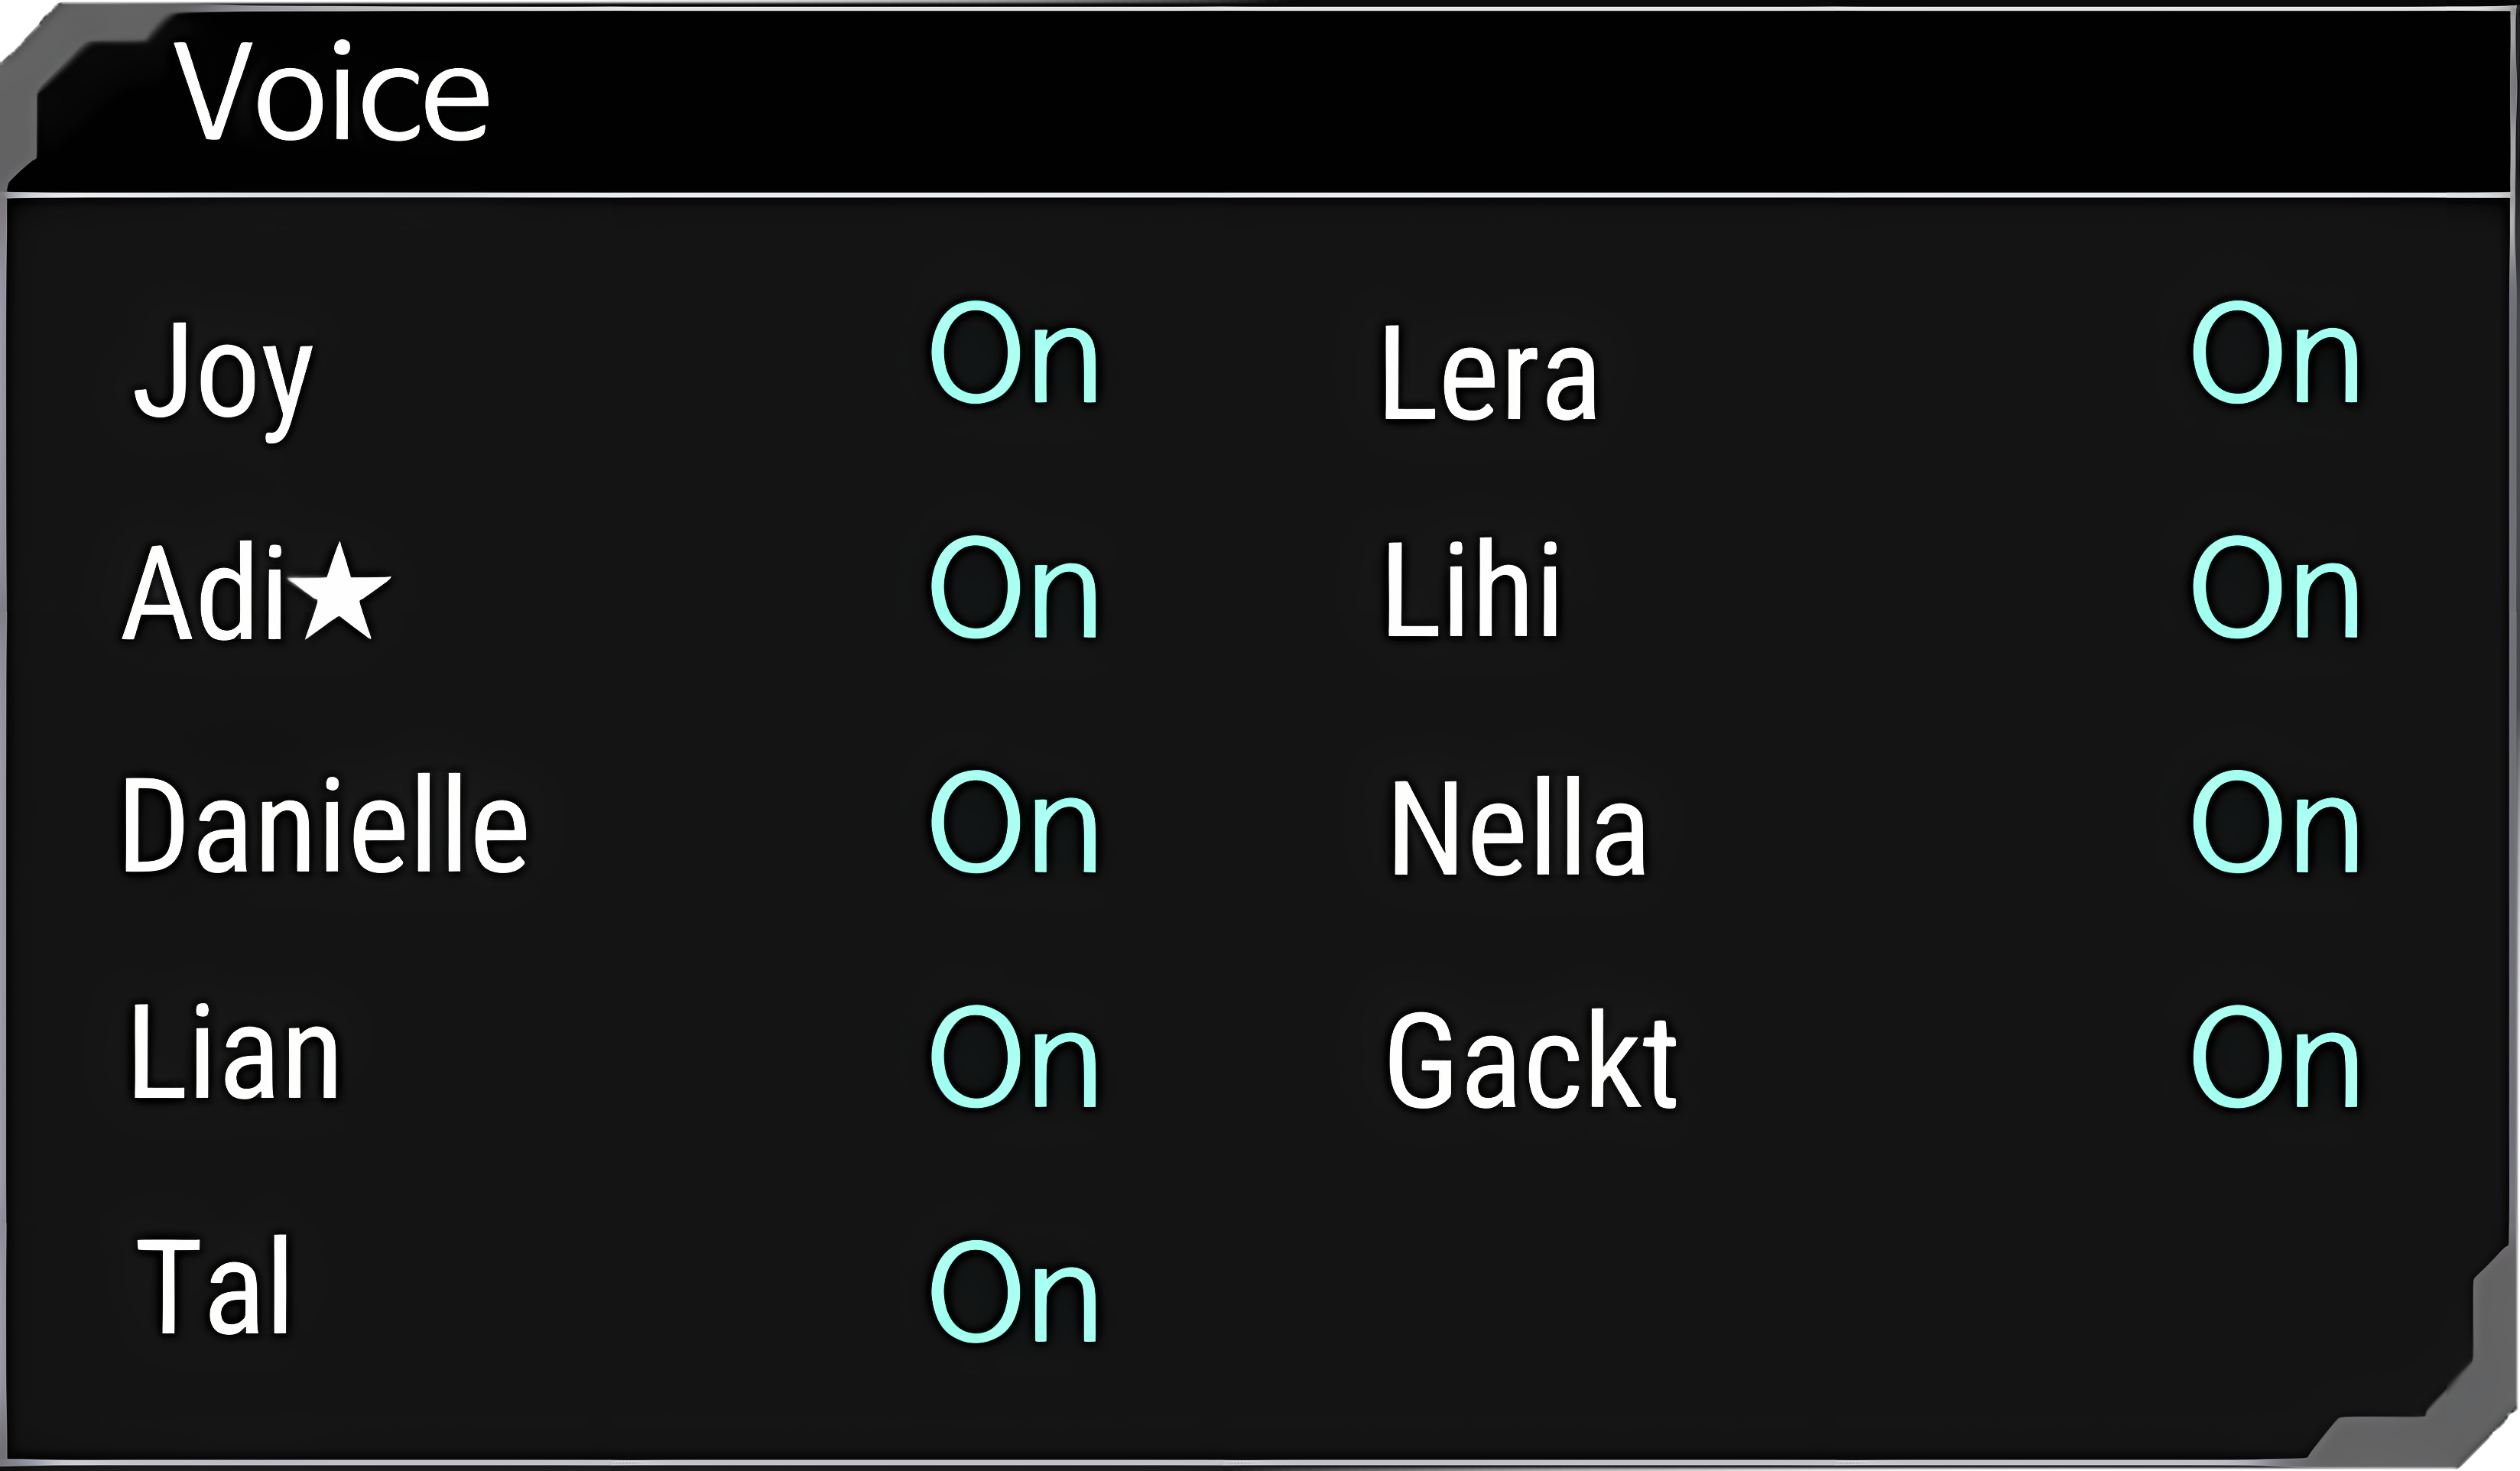
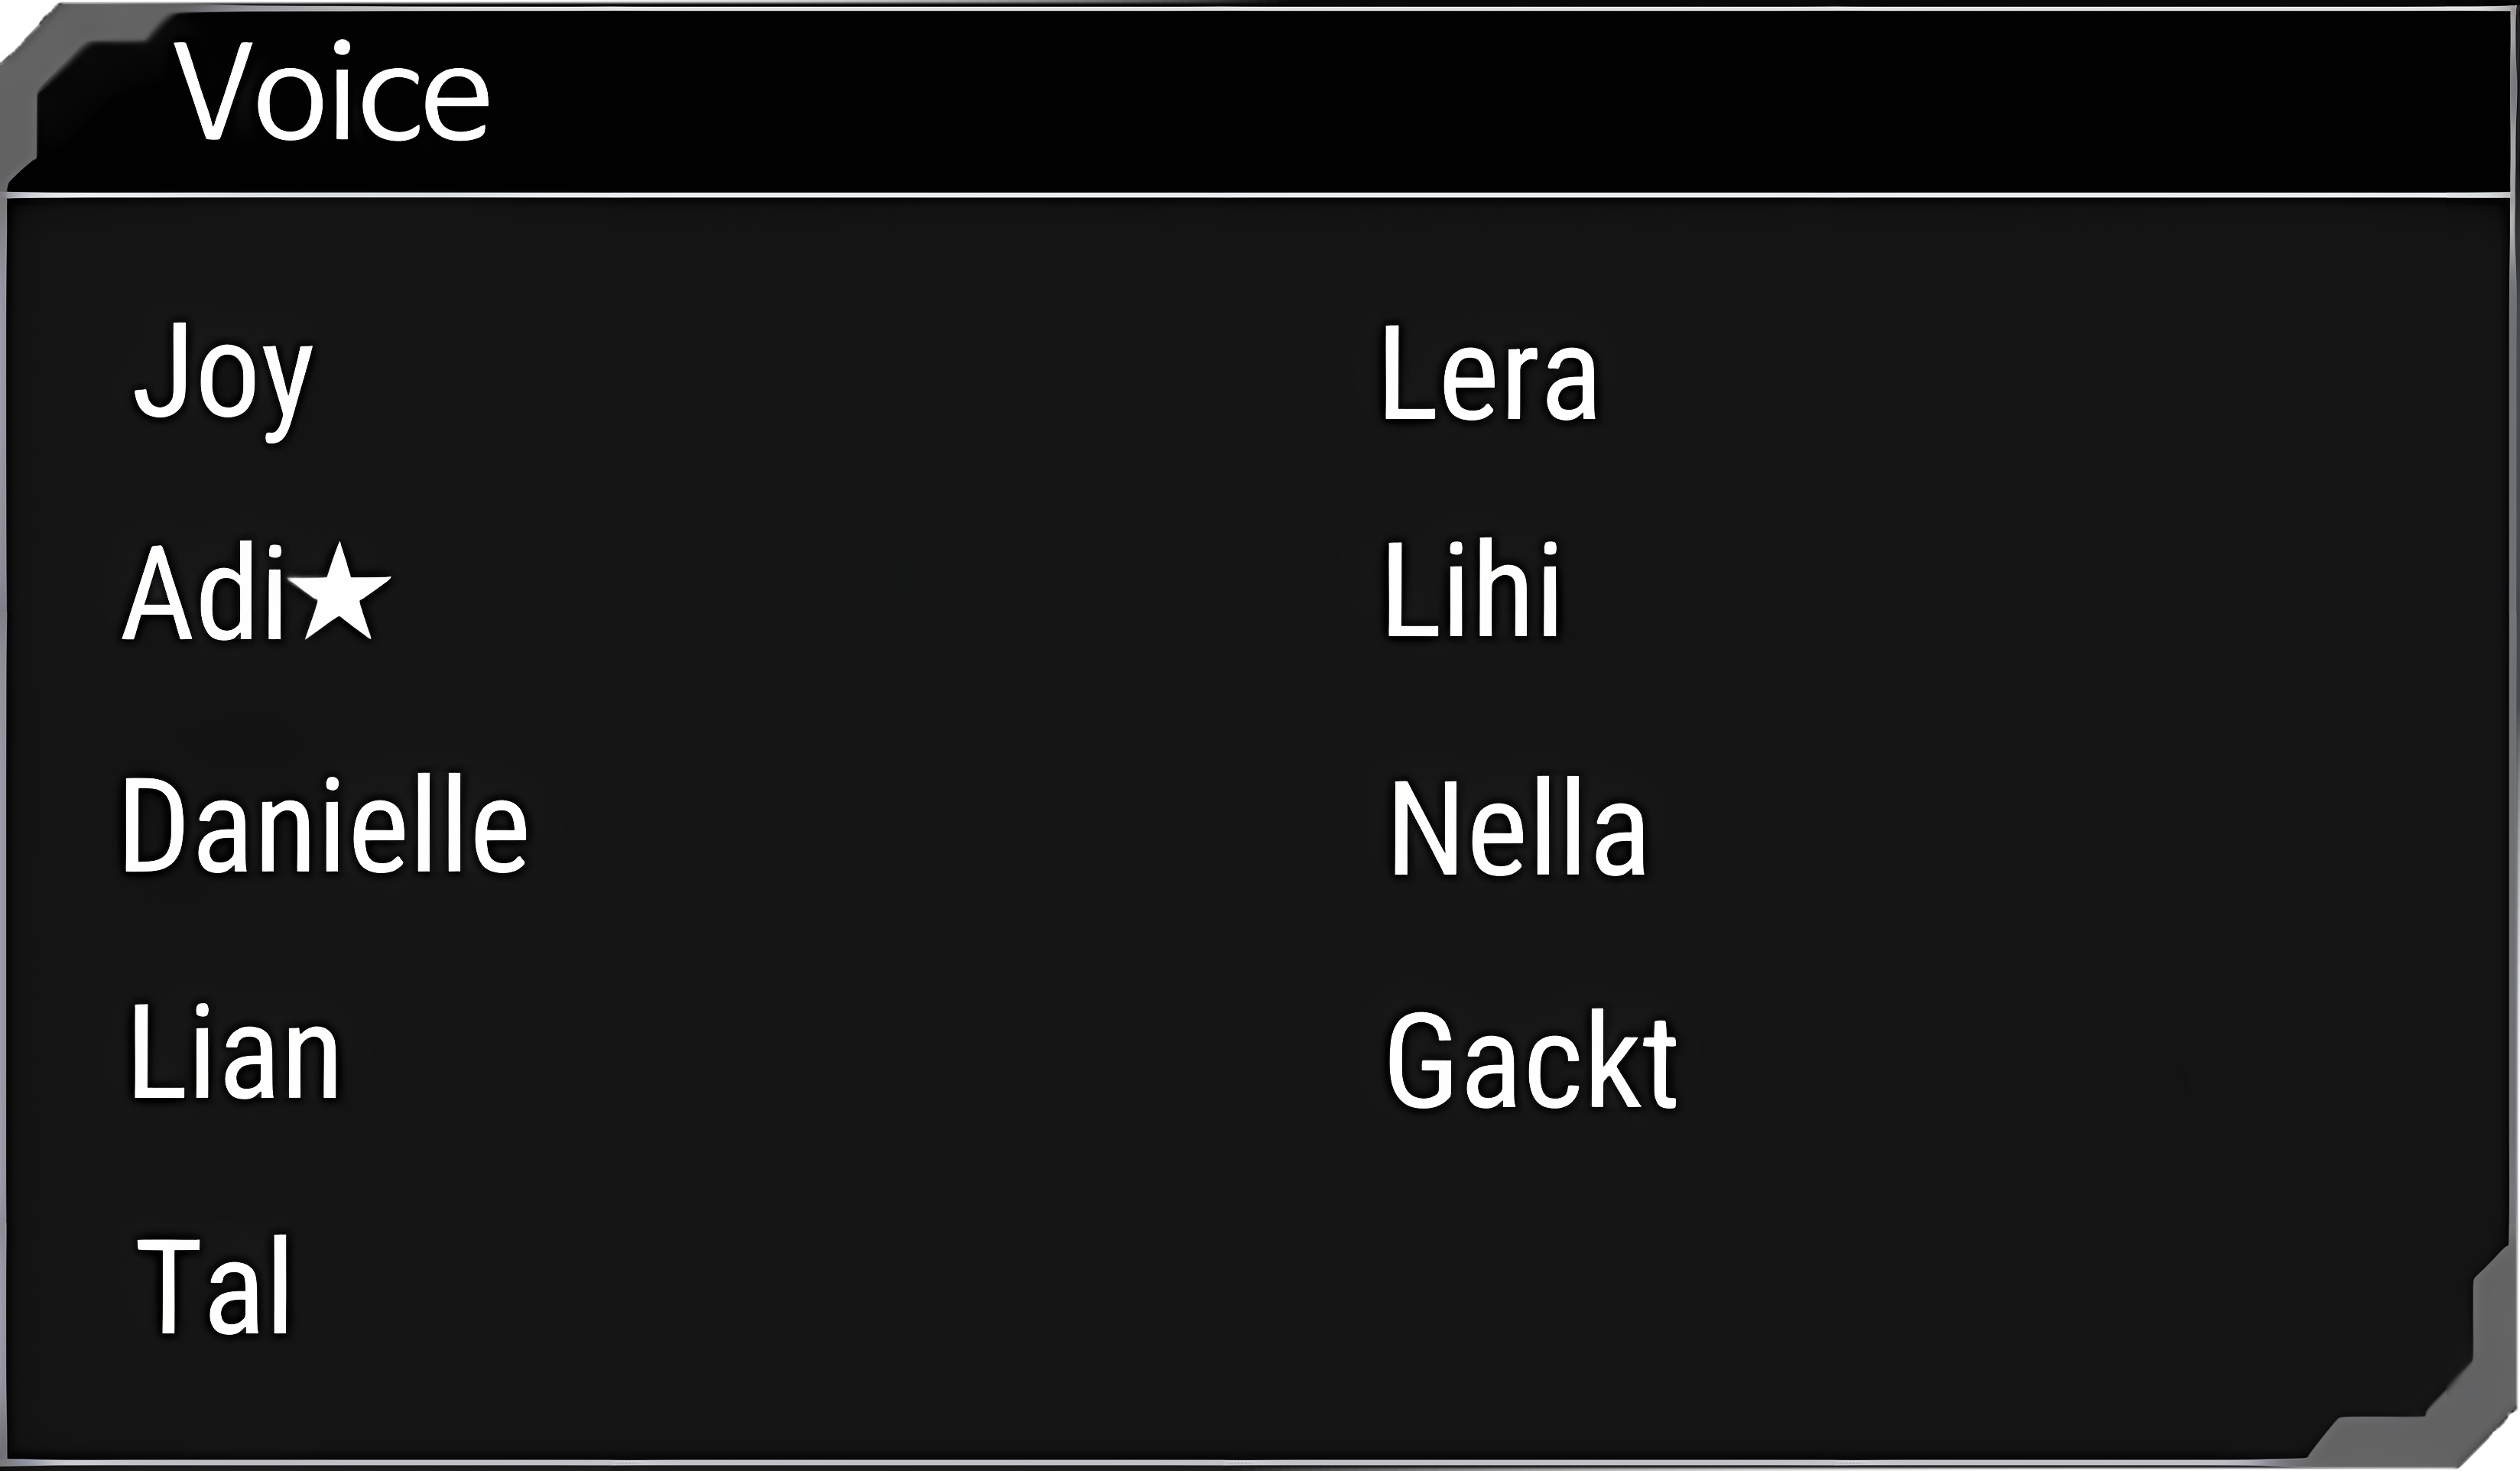
aadded mute certain users dms

diff --git a/lib/widgets/settings/settings_dm_notification_toggles.dart b/lib/widgets/settings/settings_dm_notification_toggles.dart
@@ -1,0 +1,231 @@
+import 'package:cloud_firestore/cloud_firestore.dart';
+import 'package:flutter/material.dart';
+import 'package:shared_preferences/shared_preferences.dart';
+
+import '../../audio/sfx.dart';
+
+class SettingsDmNotificationToggles extends StatefulWidget {
+  final String currentUserId;
+
+  const SettingsDmNotificationToggles({
+    super.key,
+    required this.currentUserId,
+  });
+
+  @override
+  State<SettingsDmNotificationToggles> createState() =>
+      _SettingsDmNotificationTogglesState();
+}
+
+class _SettingsDmNotificationTogglesState
+    extends State<SettingsDmNotificationToggles> {
+  final List<String> _userIds = const [
+    'joy',
+    'adi',
+    'danielle',
+    'lian',
+    'tal',
+    'lera',
+    'lihi',
+    'nella',
+  ];
+
+  final Map<String, bool> _enabledByUserId = {};
+String _effectiveCurrentUserId = '';
+  @override
+  void initState() {
+    super.initState();
+    _loadDmNotificationSettings();
+  }
+
+String _prefKey(String userId) {
+  return 'dm_notifications_${_effectiveCurrentUserId}_$userId';
+}
+Future<void> _loadDmNotificationSettings() async {
+  final prefs = await SharedPreferences.getInstance();
+
+  final String savedCurrentUserId =
+      prefs.getString('currentUserId') ?? '';
+
+  final String resolvedCurrentUserId =
+      widget.currentUserId.trim().isNotEmpty
+          ? widget.currentUserId.trim().toLowerCase()
+          : savedCurrentUserId.trim().toLowerCase();
+
+  final Map<String, bool> loaded = {};
+
+  for (final userId in _userIds) {
+    loaded[userId] =
+        prefs.getBool('dm_notifications_${resolvedCurrentUserId}_$userId') ??
+            true;
+  }
+
+  if (!mounted) return;
+
+  setState(() {
+    _effectiveCurrentUserId = resolvedCurrentUserId;
+    _enabledByUserId
+      ..clear()
+      ..addAll(loaded);
+  });
+}
+Future<void> _toggleUser(String userId) async {
+  final bool currentValue = _enabledByUserId[userId] ?? true;
+  final bool newValue = !currentValue;
+
+  try {
+    Sfx.I.playToggle();
+  } catch (_) {}
+
+  setState(() {
+    _enabledByUserId[userId] = newValue;
+  });
+
+  final prefs = await SharedPreferences.getInstance();
+  await prefs.setBool(_prefKey(userId), newValue);
+
+  try {
+    debugPrint('currentUserId is: ${widget.currentUserId}');
+debugPrint('currentUserId lowercase is: ${widget.currentUserId.toLowerCase()}');
+    final snap = await FirebaseFirestore.instance
+        .collection('users')
+        .where('appUserId', isEqualTo: _effectiveCurrentUserId)
+        .limit(1)
+        .get();
+
+    debugPrint('Found docs: ${snap.docs.length}');
+
+    if (snap.docs.isEmpty) return;
+
+    await snap.docs.first.reference.set({
+      'dmNotificationSettings': {
+        userId: newValue,
+      },
+      'dmNotificationSettingsUpdatedAt': FieldValue.serverTimestamp(),
+    }, SetOptions(merge: true));
+
+    debugPrint('DM notification setting saved.');
+  } catch (e) {
+    debugPrint('ERROR SAVING DM SETTINGS: $e');
+  }
+}
+
+  @override
+  Widget build(BuildContext context) {
+    return Stack(
+      children: [
+        _DmNotificationToggleText(
+          left: 114,
+          top: 33,
+          enabled: _enabledByUserId['joy'] ?? true,
+          onTap: () => _toggleUser('joy'),
+        ),
+        _DmNotificationToggleText(
+          left: 114,
+          top: 63,
+          enabled: _enabledByUserId['adi'] ?? true,
+          onTap: () => _toggleUser('adi'),
+        ),
+        _DmNotificationToggleText(
+          left: 114,
+          top: 93,
+          enabled: _enabledByUserId['danielle'] ?? true,
+          onTap: () => _toggleUser('danielle'),
+        ),
+        _DmNotificationToggleText(
+          left: 114,
+          top: 123,
+          enabled: _enabledByUserId['lian'] ?? true,
+          onTap: () => _toggleUser('lian'),
+        ),
+        _DmNotificationToggleText(
+          left: 114,
+          top: 153,
+          enabled: _enabledByUserId['tal'] ?? true,
+          onTap: () => _toggleUser('tal'),
+        ),
+        _DmNotificationToggleText(
+          left: 275,
+          top: 33,
+          enabled: _enabledByUserId['lera'] ?? true,
+          onTap: () => _toggleUser('lera'),
+        ),
+        _DmNotificationToggleText(
+          left: 275,
+          top: 63,
+          enabled: _enabledByUserId['lihi'] ?? true,
+          onTap: () => _toggleUser('lihi'),
+        ),
+        _DmNotificationToggleText(
+          left: 275,
+          top: 93,
+          enabled: _enabledByUserId['nella'] ?? true,
+          onTap: () => _toggleUser('nella'),
+        ),
+      ],
+    );
+  }
+}
+
+class _DmNotificationToggleText extends StatelessWidget {
+  final double left;
+  final double top;
+  final bool enabled;
+  final VoidCallback onTap;
+
+  const _DmNotificationToggleText({
+    required this.left,
+    required this.top,
+    required this.enabled,
+    required this.onTap,
+  });
+
+  @override
+  Widget build(BuildContext context) {
+    final String text = enabled ? 'On' : 'Off';
+
+    final Color color = enabled
+        ? const Color(0xFF9FFFF2)
+        : const Color(0xFFD6D6D6);
+
+    return Positioned(
+      left: left,
+      top: top,
+      child: GestureDetector(
+        behavior: HitTestBehavior.opaque,
+        onTap: onTap,
+        child: SizedBox(
+          width: 52,
+          height: 28,
+          child: Center(
+            child: AnimatedSwitcher(
+              duration: const Duration(milliseconds: 120),
+              child: Text(
+                text,
+                key: ValueKey<String>(text),
+                style: TextStyle(
+                  color: color,
+                  fontSize: 19,
+                  fontWeight: FontWeight.w300,
+                  height: 1,
+                  shadows: [
+                    Shadow(
+                      color: Colors.black.withOpacity(0.9),
+                      offset: const Offset(1.3, 1.3),
+                      blurRadius: 2,
+                    ),
+                    if (enabled)
+                      Shadow(
+                        color: const Color(0xFF9FFFF2).withOpacity(0.55),
+                        blurRadius: 5,
+                      ),
+                  ],
+                ),
+              ),
+            ),
+          ),
+        ),
+      ),
+    );
+  }
+}

diff --git a/functions/index.js b/functions/index.js
@@ -57,18 +57,44 @@ async function notifyForMessage({ snap, roomPath, roomId, messageId, roomKindDef
     const recipientAppUserId = (u.appUserId || "").toString();
     const activeDmWith = (u.activeDmWith || "").toString();
     const textPushEnabled = u.textPushEnabled !== false;
-const chatroomPushEnabled = u.chatroomPushEnabled !== false;
+    const chatroomPushEnabled = u.chatroomPushEnabled !== false;
+    const dmNotificationSettings =
+      u.dmNotificationSettings && typeof u.dmNotificationSettings === "object"
+        ? u.dmNotificationSettings
+        : {};
 
-if (roomKindDefault === "dm" && !textPushEnabled) {
-  console.log(`Skipping DM push for ${recipientAppUserId}: textPush disabled`);
-  return;
-}
+    if (roomKindDefault === "dm" && !textPushEnabled) {
+      console.log(`Skipping DM push for ${recipientAppUserId}: textPush disabled`);
+      return;
+    }
 
-if (roomKindDefault === "group" && !chatroomPushEnabled) {
-  console.log(`Skipping group push for ${recipientAppUserId}: chatroomPush disabled`);
-  return;
-}
+    if (
+      roomKindDefault === "dm" &&
+      dmNotificationSettings[senderAppUserId] === false
+    ) {
+      console.log(
+        `Skipping DM push for ${recipientAppUserId}: muted ${senderAppUserId}`
+      );
+      return;
+    }
 
+    if (roomKindDefault === "group" && !chatroomPushEnabled) {
+      console.log(`Skipping group push for ${recipientAppUserId}: chatroomPush disabled`);
+      return;
+    }
+
+    // If this is a DM, and the recipient is currently inside
+    // the DM with this exact sender, do not send push to this recipient.
+    if (
+      roomKindDefault === "dm" &&
+      activeDmWith &&
+      activeDmWith === senderAppUserId
+    ) {
+      console.log(
+        `Skipping DM push for ${recipientAppUserId}: active DM with ${senderAppUserId}`
+      );
+      return;
+    }
     // If this is a DM, and the recipient is currently inside
     // the DM with this exact sender, do not send push to this recipient.
     if (

diff --git a/lib/screens/settings_menu.dart b/lib/screens/settings_menu.dart
@@ -5,6 +5,7 @@ import '../widgets/mystic_settings_top_status_bar.dart';
 import '../widgets/mystic_title_bar.dart';
 import '../widgets/settings/settings_others_page.dart';
 import '../widgets/settings/settings_sound_sliders.dart';
+import '../widgets/settings/settings_dm_notification_toggles.dart';
 import '../main.dart';
 
 
@@ -124,11 +125,22 @@ SizedBox(
   ),
 ),
 const SizedBox(height: 12),
-    Image.asset(
-      'assets/ui/settings/sound/VoiceDecoy.png',
-      width: 330,
-      
-    ),
+SizedBox(
+  width: 330,
+  child: Stack(
+    children: [
+      Image.asset(
+        'assets/ui/settings/sound/VoiceDecoy.png',
+        width: 330,
+      ),
+      Positioned.fill(
+        child: SettingsDmNotificationToggles(
+          currentUserId: widget.currentUserId,
+        ),
+      ),
+    ],
+  ),
+),
   ],
 ),
 _ => const SettingsOthersPage(),